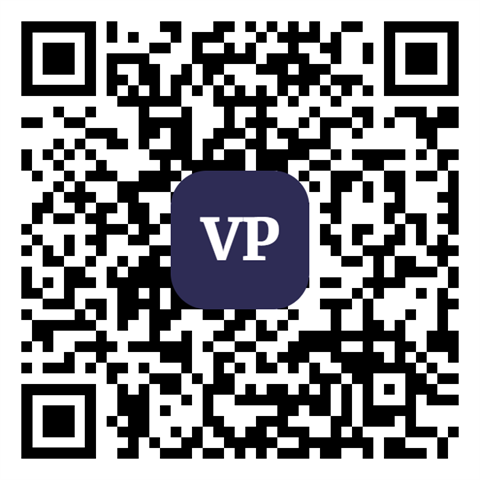
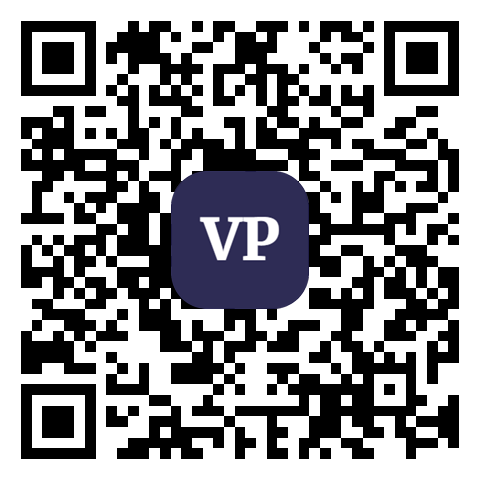
Update GitHub username from vperez-stars to ventupecas (#1)
Point every github.io and github.com link at the new username, and
regenerate the portfolio QR code so it opens the new address.

Claude-Session: https://claude.ai/code/session_01XTtDEZp991ZMZnovijFVJ4

diff --git a/js/content.js b/js/content.js
@@ -336,9 +336,9 @@ window.GUERNICA_CONTENT = {
   PROFILE: {
     name: 'Ventura Perez',
     links: {
-      portfolio: 'https://vperez-stars.github.io/Portfolio-Site/',
+      portfolio: 'https://ventupecas.github.io/Portfolio-Site/',
       linkedin: 'https://www.linkedin.com/in/ventura-perez/',
-      github: 'https://github.com/vperez-stars',
+      github: 'https://github.com/ventupecas',
       email: 'vperez@icstars.org'
     },
     es: {

diff --git a/CLAUDE.md b/CLAUDE.md
@@ -17,10 +17,12 @@ Spanish Civil War history or poetry. Completing the puzzle plays a sound.
 - 2026-11-10 — When the user asks to change text in one language, change only that language. Don't mirror the change into the other language unless asked.
 - 2026-11-10 — The Spanish must read as native **Spain** Spanish. Verify it against sources from Spain only: RAE (rae.es, the DPD and the Ortografía), institutions (Instituto Cervantes, Biblioteca Virtual Miguel de Cervantes, Ministerio de la Presidencia, Fundación García Lorca), or Spanish Wikipedia/Wikisource. Don't use Latin American sources for usage.
 
-- 2026-11-10 — The site will also be published on GitHub Pages (project site). Keep every path relative; no root-absolute `/…` URLs. Live URL (checked 2026-11-10): **`https://vperez-stars.github.io/Guernica/`** with a capital G. The lowercase `/guernica/` returns 404, so always use the capitalized form.
+- 2026-11-10 — The site will also be published on GitHub Pages (project site). Keep every path relative; no root-absolute `/…` URLs. Live URL (username changed from vperez-stars to ventupecas on 2026-11-23): **`https://ventupecas.github.io/Guernica/`** with a capital G. The lowercase `/guernica/` returns 404, so always use the capitalized form.
 - 2026-11-10 — Use the favicons from the user's Portfolio-Site project (`../Portfolio-Site`, "VP" monogram), copied to `assets/icons/`. That project's `site.webmanifest` uses root paths, so this project has its own manifest with relative paths.
 - 2026-11-10 — Use the favicons in Portfolio-Site for anything in this project that uses the VP logo (favicons, manifest icons, the profile page mark). Use the Portfolio-Site files as they are, not a recolored or cropped version. The earlier "light version" note was replaced by this rule. The copies in `assets/icons/` are byte-identical to `../Portfolio-Site` (`favicon.ico`, `favicon-16x16.png`, `favicon-32x32.png`, `apple-touch-icon.png`, `android-chrome-192x192.png`, `android-chrome-512x512.png`). Recopy them if the Portfolio-Site icons change.
-- 2026-11-10 — Creator profile page `profile.html` ("¿Quién ha hecho este puzle?" / "Who made this puzzle?"). It has an intro ("Sobre mí" / "About me"), a "why I made this project" section, and links to the portfolio (`https://vperez-stars.github.io/Portfolio-Site/`), LinkedIn (`linkedin.com/in/ventura-perez`), email (`vperez@icstars.org`) and GitHub (`github.com/vperez-stars`). These details come from `../Portfolio-Site/index.html`. The intro and "why" texts are drafts Claude wrote for the user to rewrite. Don't invent personal details or motives beyond them. The Spanish avoids gendered forms for the user (e.g., "Me dedico al desarrollo de software" rather than "desarrollador").
+- 2026-11-10 — Creator profile page `profile.html` ("¿Quién ha hecho este puzle?" / "Who made this puzzle?"). It has an intro ("Sobre mí" / "About me"), a "why I made this project" section, and links to the portfolio (`https://ventupecas.github.io/Portfolio-Site/`), LinkedIn (`linkedin.com/in/ventura-perez`), email (`vperez@icstars.org`) and GitHub (`github.com/ventupecas`). These details come from `../Portfolio-Site/index.html`. The intro and "why" texts are drafts Claude wrote for the user to rewrite. Don't invent personal details or motives beyond them. The Spanish avoids gendered forms for the user (e.g., "Me dedico al desarrollo de software" rather than "desarrollador").
+
+- 2026-11-23 — The user's GitHub username changed from `vperez-stars` to `ventupecas`. Every link now uses `ventupecas` (github.io URLs and github.com profile), and `assets/qr-portfolio.png` was regenerated to open `https://ventupecas.github.io/Portfolio-Site/#main`.
 
 ## Spanish style rules (RAE, verified 2026-11-10)
 - Thousands: use a non-breaking space, never a point: `35 000`. Four-digit numbers take no separator: `1654`. Decimals use a comma: `3,49`.
